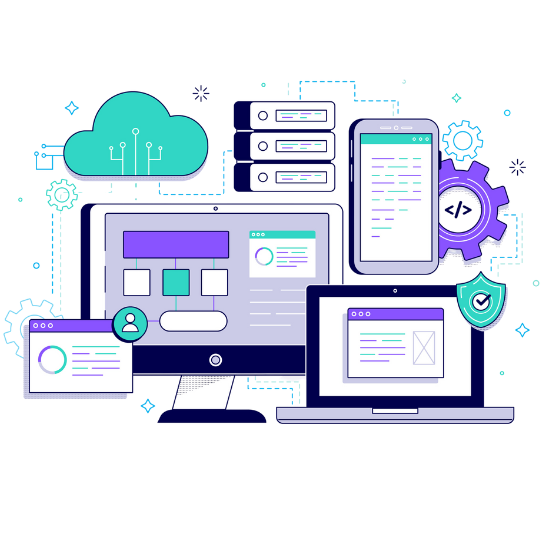
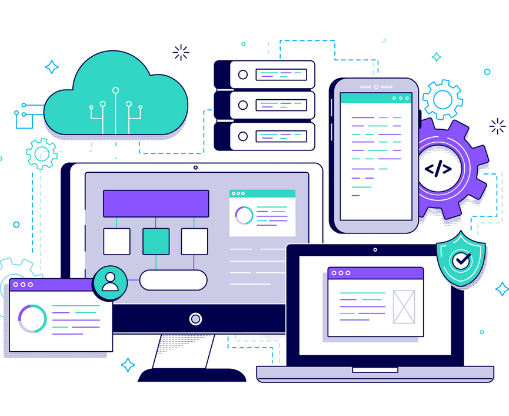
Enhance index.html layout and styling: updated hero section with new content structure, improved service cards with images and descriptions, and adjusted button placements for better user experience. Updated service thumbnail image for consistency.

diff --git a/index.html b/index.html
@@ -86,16 +86,16 @@
                     <a href="index.html" class="nav-link text-base font-medium hover:text-indigo-500 dark:hover:text-neon-cyan-DEFAULT" data-translate="navHome">Home</a>
                     <a href="services.html" class="nav-link text-base font-medium hover:text-indigo-500 dark:hover:text-neon-cyan-DEFAULT" data-translate="navServices">Services</a>
                     <a href="#contact" class="nav-link text-base font-medium hover:text-indigo-500 dark:hover:text-neon-cyan-DEFAULT" data-translate="navContact">Contact</a>
-                </div>
+            </div>
                 <div class="flex items-center space-x-4">
                     <button id="theme-toggle" class="p-2 rounded-md hover:bg-slate-200 dark:hover:bg-slate-700 transition-colors duration-200 focus:outline-none focus:ring-2 focus:ring-indigo-500 dark:focus:ring-neon-cyan" aria-label="Toggle theme">
                         <svg id="theme-icon-sun" xmlns="http://www.w3.org/2000/svg" width="24" height="24" viewBox="0 0 24 24" fill="none" stroke="currentColor" stroke-width="2" stroke-linecap="round" stroke-linejoin="round" class="lucide lucide-sun text-slate-700 dark:text-slate-200"><circle cx="12" cy="12" r="4"/><path d="M12 2v2"/><path d="M12 20v2"/><path d="m4.93 4.93 1.41 1.41"/><path d="m17.66 17.66 1.41 1.41"/><path d="M2 12h2"/><path d="M20 12h2"/><path d="m6.34 17.66-1.41 1.41"/><path d="m19.07 4.93-1.41 1.41"/></svg>
                         <svg id="theme-icon-moon" xmlns="http://www.w3.org/2000/svg" width="24" height="24" viewBox="0 0 24 24" fill="none" stroke="currentColor" stroke-width="2" stroke-linecap="round" stroke-linejoin="round" class="lucide lucide-moon text-slate-700 dark:text-slate-200"><path d="M12 3a6 6 0 0 0 9 9 9 9 0 1 1-9-9Z"/></svg>
-                    </button>
+                </button>
                     <button id="language-toggle" class="px-4 py-2 rounded-md hover:bg-slate-200 dark:hover:bg-slate-700 text-sm font-semibold transition-colors duration-200 focus:outline-none focus:ring-2 focus:ring-indigo-500 dark:focus:ring-neon-cyan">EN/AR</button>
                     <button id="mobile-menu-button" class="md:hidden p-2 rounded-md hover:bg-slate-200 dark:hover:bg-slate-700 transition-colors duration-200 focus:outline-none focus:ring-2 focus:ring-indigo-500 dark:focus:ring-neon-cyan">
-                        <svg xmlns="http://www.w3.org/2000/svg" width="24" height="24" viewBox="0 0 24 24" fill="none" stroke="currentColor" stroke-width="2" stroke-linecap="round" stroke-linejoin="round"><line x1="4" x2="20" y1="12" y2="12"/><line x1="4" x2="20" y1="6" y2="6"/><line x1="4" x2="20" y1="18" y2="18"/></svg>
-                    </button>
+                    <svg xmlns="http://www.w3.org/2000/svg" width="24" height="24" viewBox="0 0 24 24" fill="none" stroke="currentColor" stroke-width="2" stroke-linecap="round" stroke-linejoin="round"><line x1="4" x2="20" y1="12" y2="12"/><line x1="4" x2="20" y1="6" y2="6"/><line x1="4" x2="20" y1="18" y2="18"/></svg>
+                </button>
                 </div>
             </div>
         </nav>
@@ -112,17 +112,35 @@
     <!-- Main Content -->
     <main class="container mx-auto px-4 sm:px-6 lg:px-8 py-8 md:py-16">
         <!-- Hero Section -->
-        <section class="text-center py-16 md:py-24">
-            <h1 class="text-4xl sm:text-5xl md:text-6xl font-orbitron font-bold mb-6">
+        <section class="relative py-16 md:py-24 overflow-hidden">
+            <div class="grid md:grid-cols-2 gap-12 items-center">
+                <div class="text-center md:text-left">
+                    <h1 class="text-4xl sm:text-5xl md:text-6xl font-display font-bold mb-6 leading-tight">
                 <span class="dark:neon-text-cyan light:text-indigo-700" data-translate="homeHeroTitle1">Idea to App:</span>
                 <span class="block sm:inline dark:neon-text-pink light:text-purple-700" data-translate="homeHeroTitle2">We Bring Your Visions to Life</span>
             </h1>
-            <p class="text-lg md:text-xl mb-8 max-w-2xl mx-auto text-slate-600 dark:text-slate-300" data-translate="homeHeroSubtitle">
+                    <p class="text-lg md:text-xl mb-8 max-w-2xl mx-auto md:mx-0 text-slate-600 dark:text-slate-300" data-translate="homeHeroSubtitle">
                 Transforming innovative ideas into powerful software solutions. From web and mobile apps to AI integration, our experienced team (3+ years of expertise!) is ready to build your next big thing.
             </p>
+                    <div class="flex flex-col sm:flex-row gap-4 justify-center md:justify-start">
             <a href="services.html"
-               class="inline-block bg-indigo-600 hover:bg-indigo-700 dark:bg-neon-cyan-DEFAULT/80 dark:hover:bg-neon-cyan-DEFAULT text-white font-semibold py-3 px-8 rounded-lg text-lg transition-transform transform hover:scale-105 dark:shadow-neon-cyan-soft dark:hover:shadow-neon-cyan"
+                           class="inline-block bg-indigo-600 hover:bg-indigo-700 dark:bg-neon-cyan-DEFAULT/80 dark:hover:bg-neon-cyan-DEFAULT text-white font-semibold py-3 px-8 rounded-lg text-lg transition-all transform hover:scale-105 dark:shadow-neon-cyan-soft dark:hover:shadow-neon-cyan"
                data-translate="homeExploreServices">Explore Our Services</a>
+                        <a href="#contact"
+                           class="inline-block bg-white dark:bg-slate-800 border-2 border-indigo-600 dark:border-neon-cyan-DEFAULT text-indigo-600 dark:text-neon-cyan-DEFAULT font-semibold py-3 px-8 rounded-lg text-lg transition-all transform hover:scale-105 hover:bg-indigo-50 dark:hover:bg-slate-700"
+                           data-translate="contactUs">Contact Us</a>
+                    </div>
+                </div>
+                <div class="relative">
+                    <div class="px-4 sm:px-6 lg:px-8 max-w-2xl mx-auto">
+                        <div class="relative">
+                            <img src="assets/img/tech-service/service-details-thumb.png" alt="Software Development Services" class="w-full h-auto rounded-2xl shadow-2xl dark:shadow-neon-cyan-soft object-contain">
+                            <div class="absolute -bottom-6 -left-6 w-32 h-32 bg-neon-pink-DEFAULT/20 rounded-full blur-3xl"></div>
+                            <div class="absolute -top-6 -right-6 w-32 h-32 bg-neon-cyan-DEFAULT/20 rounded-full blur-3xl"></div>
+                        </div>
+                    </div>
+                </div>
+            </div>
         </section>
 
         <!-- About Us Snippet -->
@@ -162,23 +180,101 @@
         <section class="py-12 md:py-20">
             <h2 class="text-3xl font-bold text-center mb-10" data-translate="homeServicesTitle">Our Core Services</h2>
             <div class="grid md:grid-cols-2 lg:grid-cols-3 gap-8">
-                <!-- Service Card Example -->
-                <div class="bg-white dark:bg-slate-800 p-6 rounded-lg shadow-lg hover:shadow-xl dark:border dark:border-slate-700 dark:hover:border-neon-cyan-DEFAULT/50 dark:hover:shadow-neon-cyan-soft transition-all">
+                <!-- Web Development -->
+                <div class="bg-white dark:bg-slate-800 rounded-xl shadow-lg hover:shadow-xl dark:border dark:border-slate-700 dark:hover:border-neon-cyan-DEFAULT/50 dark:hover:shadow-neon-cyan-soft transition-all overflow-hidden group">
+                    <figure class="relative h-48 sm:h-64 overflow-hidden">
+                        <img src="assets/img/tech-service/Development.png" alt="Web Development Services" class="w-full h-full object-cover transform group-hover:scale-105 transition-transform duration-300">
+                        <div class="absolute inset-0 bg-gradient-to-t from-black/60 to-transparent"></div>
+                    </figure>
+                    <div class="p-6">
                     <h3 class="text-xl font-semibold mb-2 text-indigo-600 dark:text-neon-cyan-DEFAULT" data-translate="serviceWebDevTitle">Web Development</h3>
                     <p class="text-slate-600 dark:text-slate-400 mb-4" data-translate="serviceWebDevShortDesc">Crafting responsive, high-performance websites tailored to your business needs.</p>
-                    <a href="web-development.html" class="text-indigo-500 dark:text-neon-cyan-DEFAULT/90 hover:underline font-semibold" data-translate="learnMore">Learn More &rarr;</a>
+                        <a href="web-development.html" class="text-indigo-500 dark:text-neon-cyan-DEFAULT/90 hover:underline font-semibold inline-flex items-center gap-2" data-translate="learnMore">
+                            Learn More
+                            <svg xmlns="http://www.w3.org/2000/svg" width="20" height="20" viewBox="0 0 24 24" fill="none" stroke="currentColor" stroke-width="2" stroke-linecap="round" stroke-linejoin="round" class="transform group-hover:translate-x-1 transition-transform"><path d="M5 12h14"/><path d="m12 5 7 7-7 7"/></svg>
+                        </a>
+                    </div>
                 </div>
-                <div class="bg-white dark:bg-slate-800 p-6 rounded-lg shadow-lg hover:shadow-xl dark:border dark:border-slate-700 dark:hover:border-neon-pink-DEFAULT/50 dark:hover:shadow-neon-pink-soft transition-all">
+
+                <!-- App Development -->
+                <div class="bg-white dark:bg-slate-800 rounded-xl shadow-lg hover:shadow-xl dark:border dark:border-slate-700 dark:hover:border-neon-pink-DEFAULT/50 dark:hover:shadow-neon-pink-soft transition-all overflow-hidden group">
+                    <figure class="relative h-48 sm:h-64 overflow-hidden">
+                        <img src="assets/img/tech-service/AppDevelopment.png" alt="App Development Services" class="w-full h-full object-cover transform group-hover:scale-105 transition-transform duration-300">
+                        <div class="absolute inset-0 bg-gradient-to-t from-black/60 to-transparent"></div>
+                    </figure>
+                    <div class="p-6">
                     <h3 class="text-xl font-semibold mb-2 text-purple-600 dark:text-neon-pink-DEFAULT" data-translate="serviceAppDevTitle">App Development</h3>
                     <p class="text-slate-600 dark:text-slate-400 mb-4" data-translate="serviceAppDevShortDesc">Building native and cross-platform mobile apps for iOS, Android, macOS, and Windows.</p>
-                    <a href="app-development.html" class="text-purple-500 dark:text-neon-pink-DEFAULT/90 hover:underline font-semibold" data-translate="learnMore">Learn More &rarr;</a>
+                        <a href="app-development.html" class="text-purple-500 dark:text-neon-pink-DEFAULT/90 hover:underline font-semibold inline-flex items-center gap-2" data-translate="learnMore">
+                            Learn More
+                            <svg xmlns="http://www.w3.org/2000/svg" width="20" height="20" viewBox="0 0 24 24" fill="none" stroke="currentColor" stroke-width="2" stroke-linecap="round" stroke-linejoin="round" class="transform group-hover:translate-x-1 transition-transform"><path d="M5 12h14"/><path d="m12 5 7 7-7 7"/></svg>
+                        </a>
+                    </div>
                 </div>
-                <div class="bg-white dark:bg-slate-800 p-6 rounded-lg shadow-lg hover:shadow-xl dark:border dark:border-slate-700 dark:hover:border-neon-cyan-DEFAULT/50 dark:hover:shadow-neon-cyan-soft transition-all">
+
+                <!-- AI Services -->
+                <div class="bg-white dark:bg-slate-800 rounded-xl shadow-lg hover:shadow-xl dark:border dark:border-slate-700 dark:hover:border-neon-cyan-DEFAULT/50 dark:hover:shadow-neon-cyan-soft transition-all overflow-hidden group">
+                    <figure class="relative h-48 sm:h-64 overflow-hidden">
+                        <img src="assets/img/tech-service/AI-Integration.jpg" alt="AI Integration Services" class="w-full h-full object-cover transform group-hover:scale-105 transition-transform duration-300">
+                        <div class="absolute inset-0 bg-gradient-to-t from-black/60 to-transparent"></div>
+                    </figure>
+                    <div class="p-6">
                     <h3 class="text-xl font-semibold mb-2 text-indigo-600 dark:text-neon-cyan-DEFAULT" data-translate="serviceAIServicesTitle">AI Services</h3>
                     <p class="text-slate-600 dark:text-slate-400 mb-4" data-translate="serviceAIServicesShortDesc">Integrating AI for automation, insights, and intelligent application features.</p>
-                    <a href="ai-services.html" class="text-indigo-500 dark:text-neon-cyan-DEFAULT/90 hover:underline font-semibold" data-translate="learnMore">Learn More &rarr;</a>
+                        <a href="ai-services.html" class="text-indigo-500 dark:text-neon-cyan-DEFAULT/90 hover:underline font-semibold inline-flex items-center gap-2" data-translate="learnMore">
+                            Learn More
+                            <svg xmlns="http://www.w3.org/2000/svg" width="20" height="20" viewBox="0 0 24 24" fill="none" stroke="currentColor" stroke-width="2" stroke-linecap="round" stroke-linejoin="round" class="transform group-hover:translate-x-1 transition-transform"><path d="M5 12h14"/><path d="m12 5 7 7-7 7"/></svg>
+                        </a>
+                    </div>
                 </div>
-                 <!-- Add more featured services or a link to the main services page -->
+
+                <!-- UI/UX Design -->
+                <div class="bg-white dark:bg-slate-800 rounded-xl shadow-lg hover:shadow-xl dark:border dark:border-slate-700 dark:hover:border-neon-pink-DEFAULT/50 dark:hover:shadow-neon-pink-soft transition-all overflow-hidden group">
+                    <figure class="relative h-48 sm:h-64 overflow-hidden">
+                        <img src="assets/img/tech-service/UIUXDesig.png" alt="UI/UX Design Services" class="w-full h-full object-cover transform group-hover:scale-105 transition-transform duration-300">
+                        <div class="absolute inset-0 bg-gradient-to-t from-black/60 to-transparent"></div>
+                    </figure>
+                    <div class="p-6">
+                        <h3 class="text-xl font-semibold mb-2 text-purple-600 dark:text-neon-pink-DEFAULT" data-translate="serviceUIUXTitle">UI/UX Design</h3>
+                        <p class="text-slate-600 dark:text-slate-400 mb-4" data-translate="serviceUIUXShortDesc">Creating intuitive and engaging user interfaces with exceptional user experience.</p>
+                        <a href="uiux-design.html" class="text-purple-500 dark:text-neon-pink-DEFAULT/90 hover:underline font-semibold inline-flex items-center gap-2" data-translate="learnMore">
+                            Learn More
+                            <svg xmlns="http://www.w3.org/2000/svg" width="20" height="20" viewBox="0 0 24 24" fill="none" stroke="currentColor" stroke-width="2" stroke-linecap="round" stroke-linejoin="round" class="transform group-hover:translate-x-1 transition-transform"><path d="M5 12h14"/><path d="m12 5 7 7-7 7"/></svg>
+                        </a>
+                    </div>
+                </div>
+
+                <!-- Security Services -->
+                <div class="bg-white dark:bg-slate-800 rounded-xl shadow-lg hover:shadow-xl dark:border dark:border-slate-700 dark:hover:border-neon-cyan-DEFAULT/50 dark:hover:shadow-neon-cyan-soft transition-all overflow-hidden group">
+                    <figure class="relative h-48 sm:h-64 overflow-hidden">
+                        <img src="assets/img/tech-service/Security.png" alt="Security Services" class="w-full h-full object-cover transform group-hover:scale-105 transition-transform duration-300">
+                        <div class="absolute inset-0 bg-gradient-to-t from-black/60 to-transparent"></div>
+                    </figure>
+                    <div class="p-6">
+                        <h3 class="text-xl font-semibold mb-2 text-indigo-600 dark:text-neon-cyan-DEFAULT" data-translate="serviceSecurityTitle">Security Services</h3>
+                        <p class="text-slate-600 dark:text-slate-400 mb-4" data-translate="serviceSecurityShortDesc">Implementing robust security measures to protect your applications and data.</p>
+                        <a href="security-services.html" class="text-indigo-500 dark:text-neon-cyan-DEFAULT/90 hover:underline font-semibold inline-flex items-center gap-2" data-translate="learnMore">
+                            Learn More
+                            <svg xmlns="http://www.w3.org/2000/svg" width="20" height="20" viewBox="0 0 24 24" fill="none" stroke="currentColor" stroke-width="2" stroke-linecap="round" stroke-linejoin="round" class="transform group-hover:translate-x-1 transition-transform"><path d="M5 12h14"/><path d="m12 5 7 7-7 7"/></svg>
+                        </a>
+                    </div>
+                </div>
+
+                <!-- Automation Services -->
+                <div class="bg-white dark:bg-slate-800 rounded-xl shadow-lg hover:shadow-xl dark:border dark:border-slate-700 dark:hover:border-neon-pink-DEFAULT/50 dark:hover:shadow-neon-pink-soft transition-all overflow-hidden group">
+                    <figure class="relative h-48 sm:h-64 overflow-hidden">
+                        <img src="assets/img/tech-service/AutomationServices.png" alt="Automation Services" class="w-full h-full object-cover transform group-hover:scale-105 transition-transform duration-300">
+                        <div class="absolute inset-0 bg-gradient-to-t from-black/60 to-transparent"></div>
+                    </figure>
+                    <div class="p-6">
+                        <h3 class="text-xl font-semibold mb-2 text-purple-600 dark:text-neon-pink-DEFAULT" data-translate="serviceAutomationTitle">Automation Services</h3>
+                        <p class="text-slate-600 dark:text-slate-400 mb-4" data-translate="serviceAutomationShortDesc">Streamlining processes and workflows through intelligent automation solutions.</p>
+                        <a href="automation-services.html" class="text-purple-500 dark:text-neon-pink-DEFAULT/90 hover:underline font-semibold inline-flex items-center gap-2" data-translate="learnMore">
+                            Learn More
+                            <svg xmlns="http://www.w3.org/2000/svg" width="20" height="20" viewBox="0 0 24 24" fill="none" stroke="currentColor" stroke-width="2" stroke-linecap="round" stroke-linejoin="round" class="transform group-hover:translate-x-1 transition-transform"><path d="M5 12h14"/><path d="m12 5 7 7-7 7"/></svg>
+                        </a>
+                    </div>
+                </div>
             </div>
             <div class="text-center mt-12">
                 <a href="services.html"
